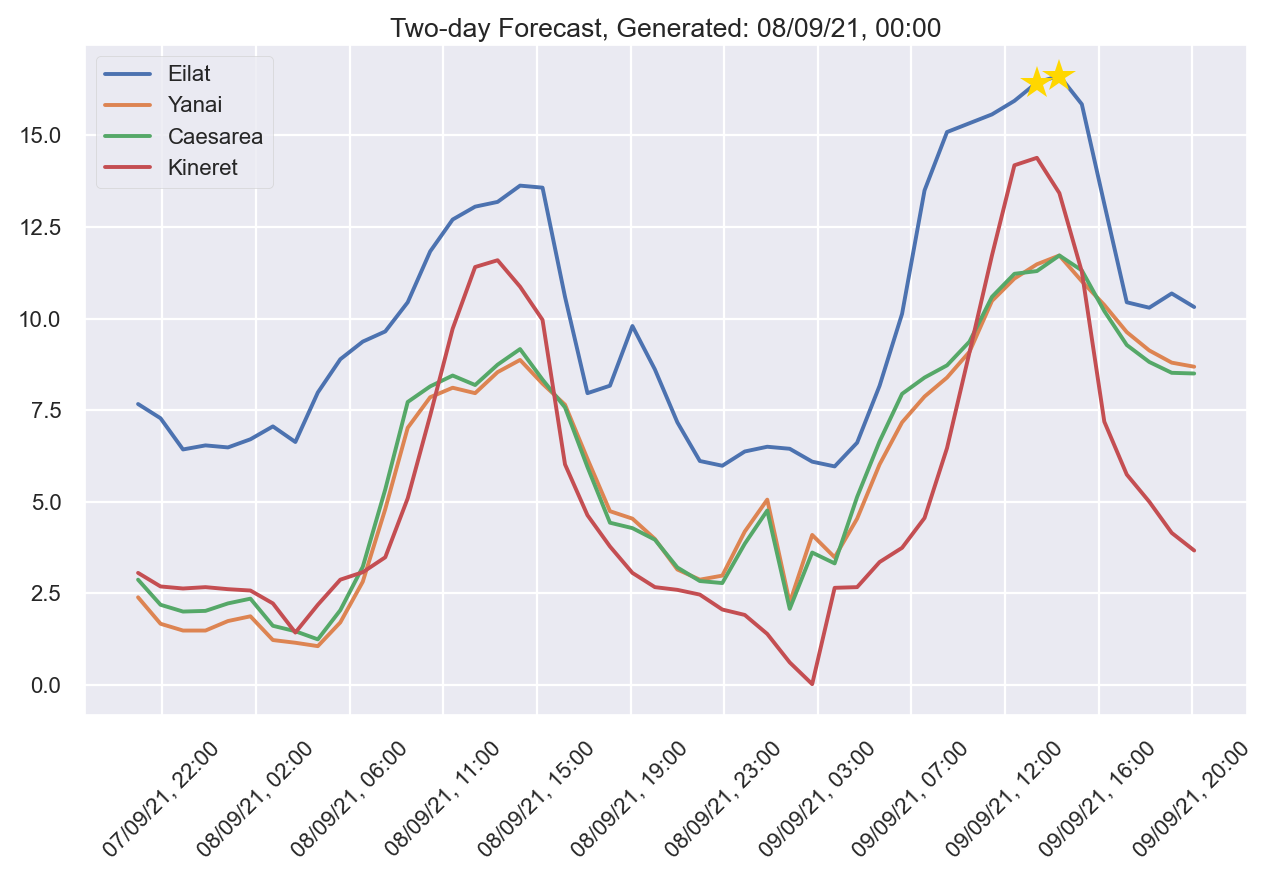
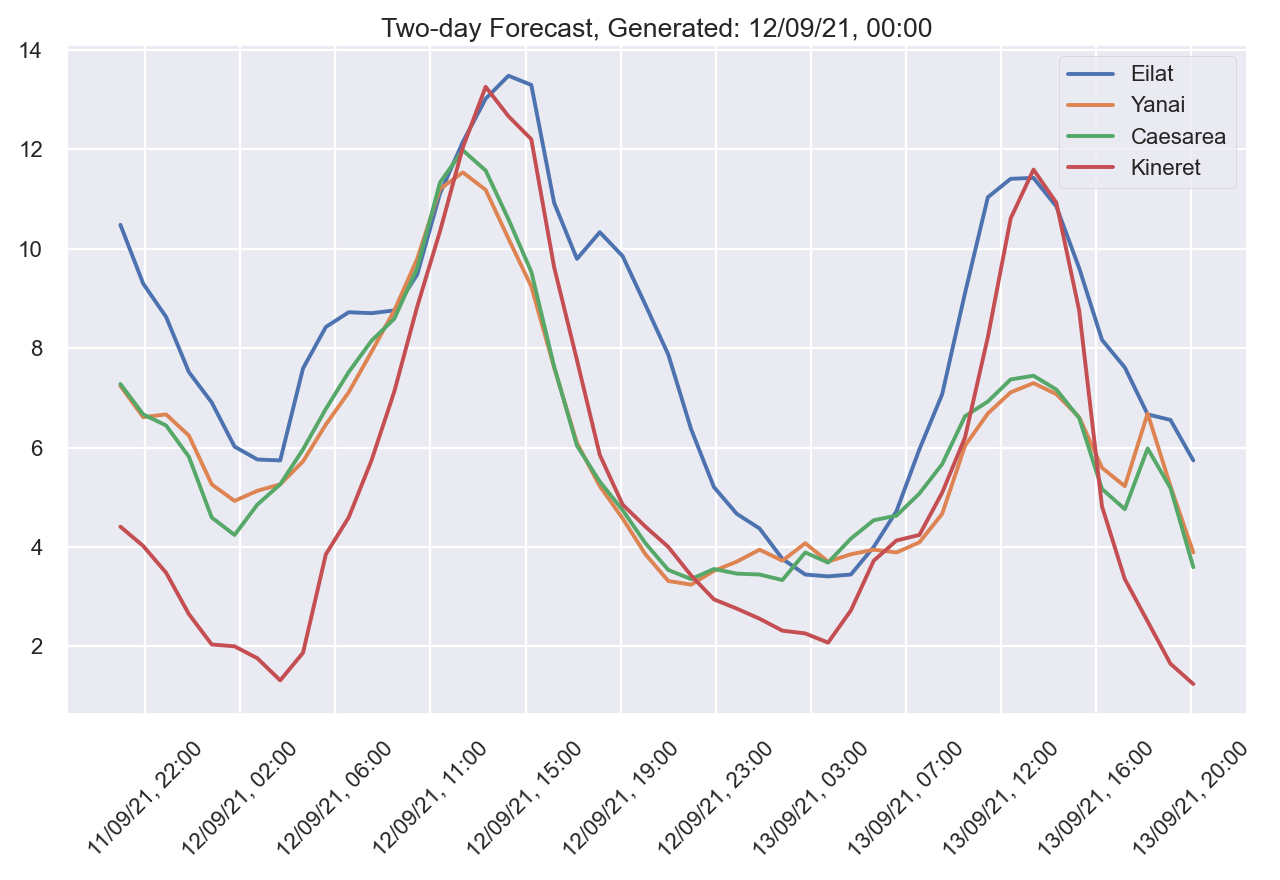
New apis adding process

diff --git a/WeatherAPI.py b/WeatherAPI.py
@@ -1,0 +1,14 @@
+import requests
+
+url = "https://weatherapi-com.p.rapidapi.com/forecast.json"
+
+querystring = {"q":"32.38,34.86","days":"2"}
+
+headers = {
+    'x-rapidapi-host': "weatherapi-com.p.rapidapi.com",
+    'x-rapidapi-key': "898d16c808msh1226576a4196859p12b249jsnd3b06fc3e410"
+    }
+
+response = requests.request("GET", url, headers=headers, params=querystring)
+
+print(response.text)

diff --git a/StormAPI.py b/StormAPI.py
@@ -1,0 +1,14 @@
+import requests
+
+url = "https://stormglass.p.rapidapi.com/forecast"
+
+querystring = {"lat":"32.38","lng":"34.86"}
+
+headers = {
+    'x-rapidapi-host': "stormglass.p.rapidapi.com",
+    'x-rapidapi-key': "898d16c808msh1226576a4196859p12b249jsnd3b06fc3e410"
+    }
+
+response = requests.request("GET", url, headers=headers, params=querystring)
+
+print(response.text)

diff --git a/Hourly_forecast.py b/Hourly_forecast.py
@@ -72,7 +72,7 @@ y1 = Eilat['Speed']
 y2 = Beit_Yanai['Speed']
 y3 = Sedot_Yam['Speed']
 y4 = Sea_of_galilee['Speed']
-y5 = Spots_df[(Spots_df["Speed"] > 16)]
+y5 = Spots_df[(Spots_df["Speed"] > 14)]
 y6 = y5['Speed']
 
 x = Eilat['Date']
